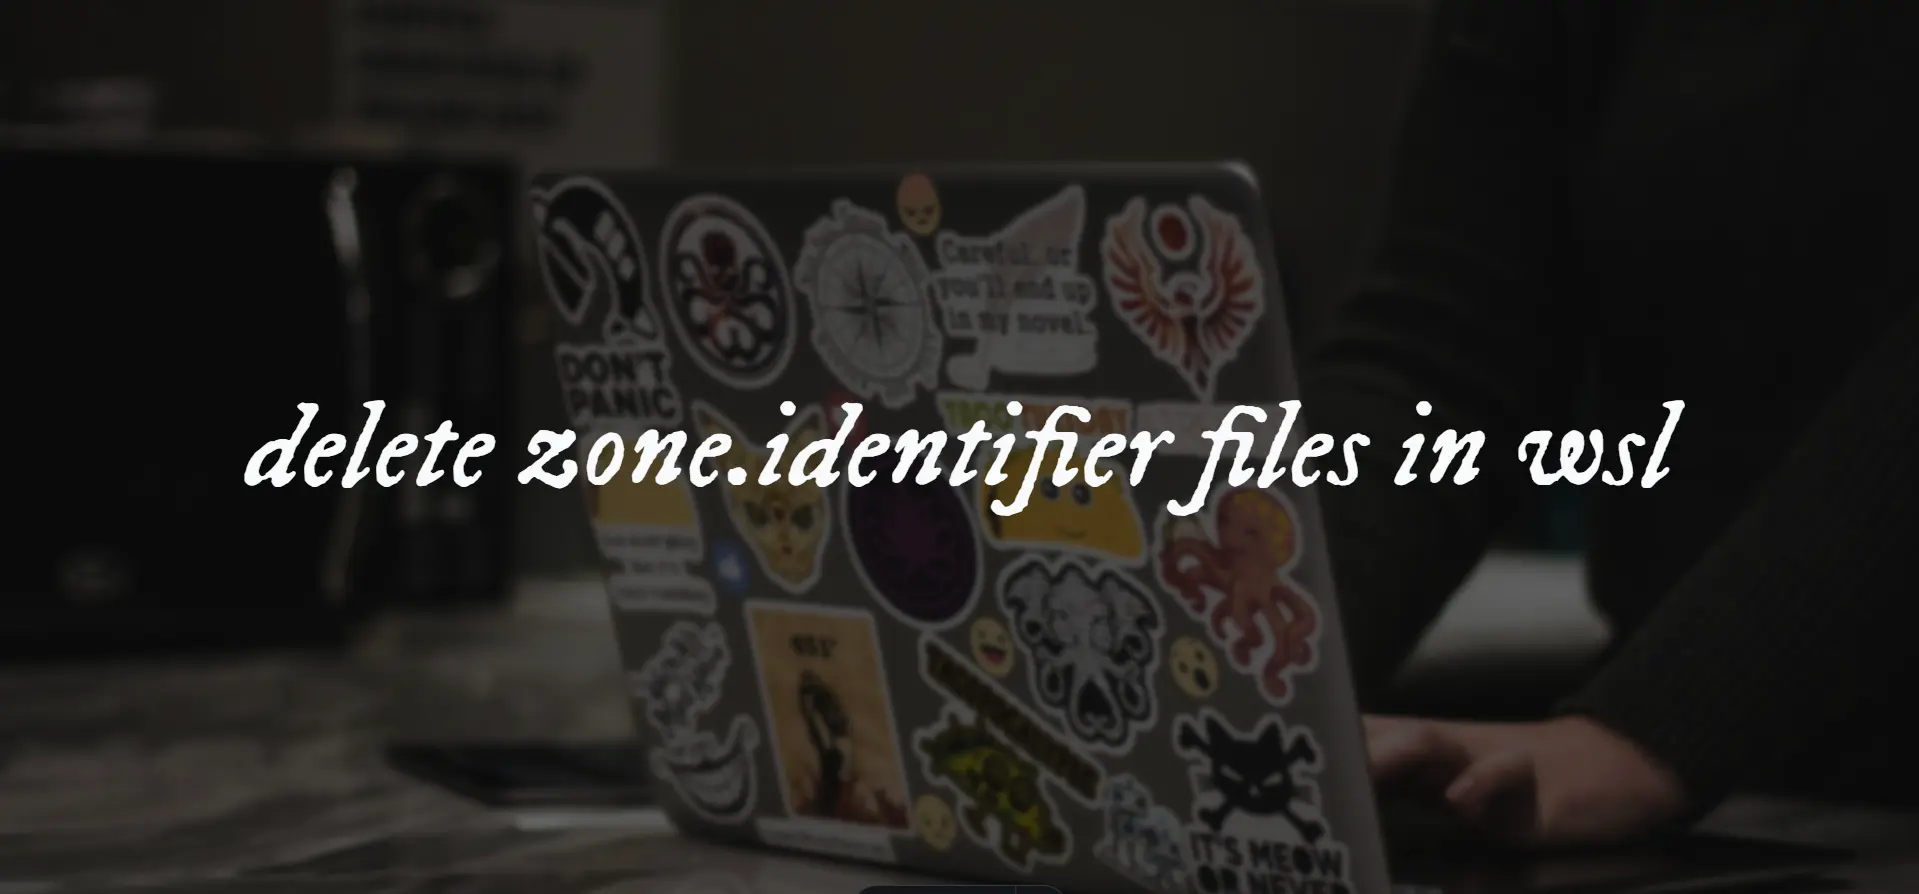
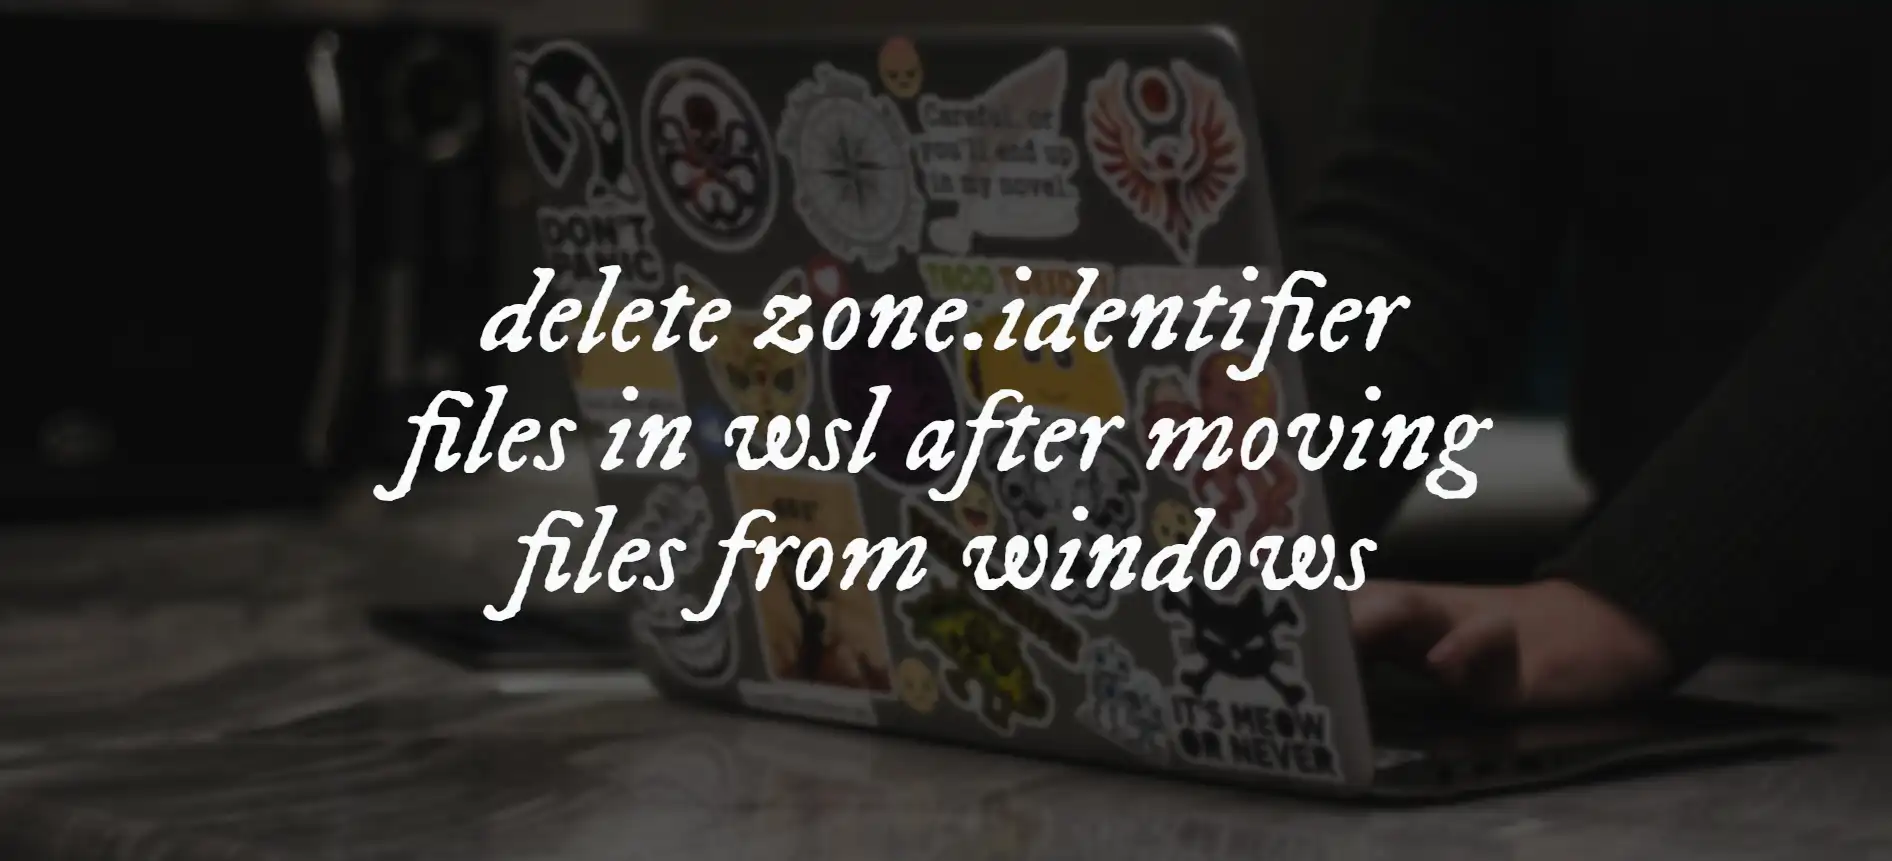
refactor: update delete zone identifier blog

diff --git a/src/styles/global.css b/src/styles/global.css
@@ -59,7 +59,3 @@ body {
   font-family: 'Geist', sans-serif;
   @apply bg-neutral-100 dark:bg-neutral-950 text-neutral-800 dark:text-neutral-300;
 }
-
-.bg-reverse {
-  @apply bg-neutral-950 dark:bg-neutral-100;
-}

diff --git a/src/contents/blog/delete-zone-identifier-files-in-wsl.md b/src/contents/blog/delete-zone-identifier-files-in-wsl.md
@@ -1,33 +1,36 @@
 ---
-title: Delete Zone.Identifier files in WSL
+title: Delete Zone.Identifier Files in WSL After Moving Files from Windows
 image: ./images/delete-zone-identifier-files-in-wsl.webp
-imageCaption: An image with the text "delete zone.identifier files in wsl"
+imageCaption: An image with the text "delete zone.identifier files in wsl after moving files from windows"
 imageCredit: Kenny Eliason
 imageLink: https://unsplash.com/photos/person-surfing-black-laptop-near-microwave-oven-_oKSYD2cSIk
-description: If you are a software engineer, make sure to do this before pushing your changes
+description: Make sure WSL stays clean before your next commit
+metaDescription: Accidentally pasted files into WSL and saw :Zone.Identifier clutter? Here's how to safely delete them using one simple command
 publishedAt: 2024-07-23T15:23:51.405Z
 status: published
 ---
 
-<strong>TL;DR:</strong> Run the following code snippet in the WSL command line from the directory where the Zone.Identifier files are located.
+<strong>TL;DR:</strong> To quickly delete all `Zone.Identifier` files in a WSL directory, run this command in your Linux shell:
 
 ```bash
 find . -name "*:Zone.Identifier" -type f -delete
 ```
 
-I use a Windows laptop and rely on [WSL](https://learn.microsoft.com/en-us/windows/wsl/) (Windows Subsystem for Linux) for my daily work as a software engineer.
+As a software engineer working primarily on a Windows laptop, I often rely on [WSL](https://learn.microsoft.com/en-us/windows/wsl/) (Windows Subsystem for Linux) for development tasks.
 
-One day, I needed to download some design resources from [Figma](https://www.figma.com/). These resources were initially saved in Windows' Downloads directory, so I had to cut and paste them into my project directory in WSL.
+Recently, I downloaded design assets from Figma and saved them in my Windows Downloads folder. After moving them into my WSL project directory, I noticed something odd—extra files with `:Zone.Identifier` suffixes appeared alongside the actual files.
 
-However, some unexpected files with the `Zone.Identifier` suffix were also pasted.
+Here's what I expected:
 
 ```bash
-# Expectation
 my-project/
     ├── icon-1.svg
     └── icon-2.png
+```
 
-# Reality
+Here's what I got instead:
+
+```bash
 my-project/
     ├── icon-1.svg
     ├── icon-1.svg:Zone.Identifier
@@ -35,11 +38,12 @@ my-project/
     └── icon-2.png:Zone.Identifier
 ```
 
-If you encounter the same situation, follow these steps:
+These metadata files (`Zone.Identifier`) are automatically created by Windows to mark files downloaded from the internet. They're harmless, but can clutter your project or break certain tools in WSL.
 
-1. Open the WSL directory where you pasted the files
-2. Press `Shift` + right-click
-3. Choose `Open Linux shell here`
-4. Run the command mentioned right after TL;DR above
+If you're seeing the same issue, follow these steps:
 
-After completing these steps, the `Zone.Identifier` files should be removed from the directory.
+1. Navigate to your WSL project directory where the files are located
+2. Press `Shift` + right-click and choose `Open Linux shell here`
+3. Run the command mentioned right after TL;DR above which will recursively find and delete all files ending in `:Zone.Identifier`.
+
+After running the command, your directory should only contain the actual copied files without the unwanted metadata.
